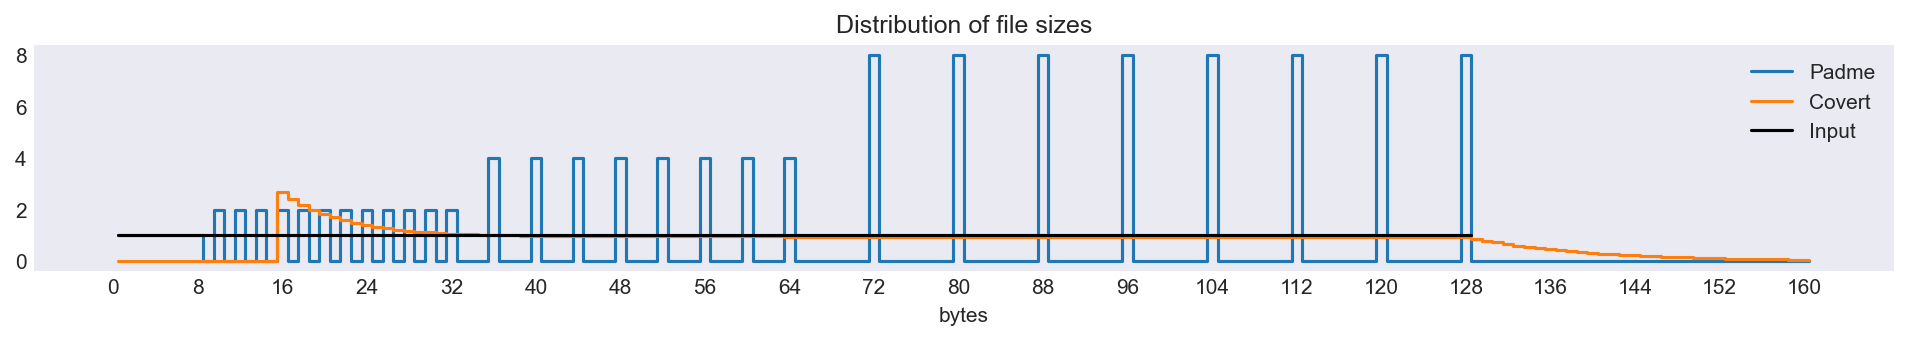
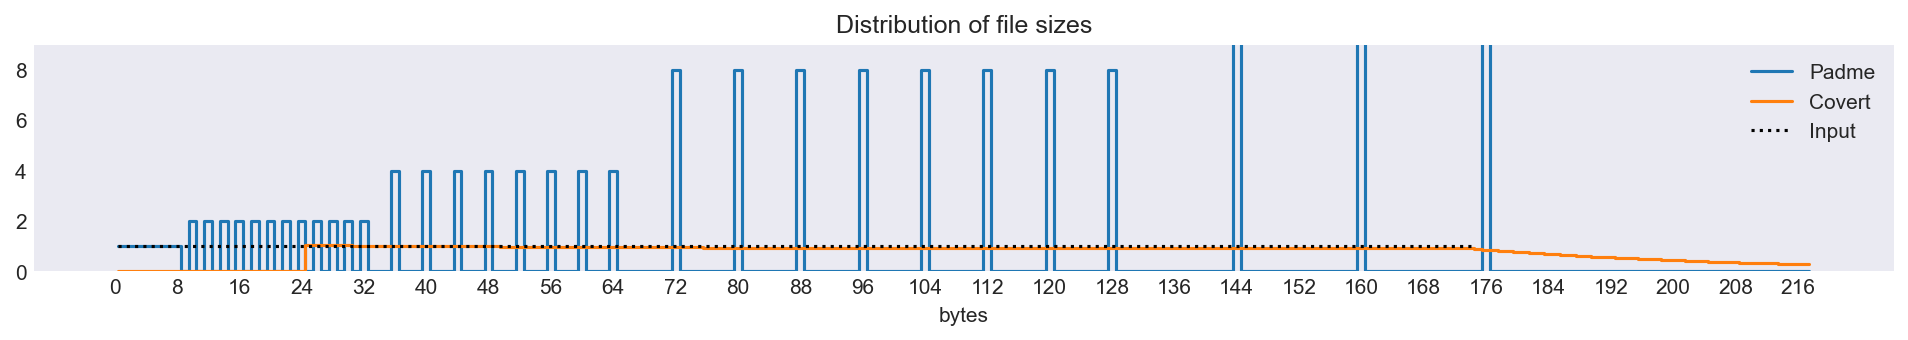
Increase padding on short messages such that they are strongly protected.

diff --git a/covert/util.py b/covert/util.py
@@ -82,10 +82,10 @@ def random_padding(total, p):
   if not p:
     return 0
   # Choose the amount of fixed padding to hide very short messages
-  low = int(p * 200)
+  low = int(p * 500)
   padfixed = max(0, low - total)
   # Calculate a preferred mean size and randomize
-  padsize = 2 + p * .7e8 * log2(1 + 1e-8 * max(low, total))
+  padsize = 1 + p * 200 + p * .7e8 * log2(1 + 1e-8 * max(low, total))
   padsize = int(round(random.expovariate(1.0 / padsize)))
   # Apply pad-to-fixed-size for very short messages plus random padding
   return padfixed + padsize

diff --git a/docs/Specification.md b/docs/Specification.md
@@ -75,12 +75,12 @@ padsize = int(round(random.expovariate(1.0 / size)))
 
 This gives good variation in the ciphertext length, such that one cannot guess the length and the meaning of a message by looking at the size of the ciphertext. The *mean length* will be `size` bytes. Most of the time the padding is shorter than that but occassionally it can be many times longer.
 
-![Padding size](https://github.com/covert-encryption/covert/raw/main/docs/in-out.png)
+![Padding size](https://github.com/covert-encryption/covert/raw/main/docs/in-out.webp)
 Message data is shown in grey, and the padding added on top of it in orange. Covert padding is randomized, visualised by fading shades of orange. Another currently popular padding scheme Padme is shown for comparison. Covert implements fixed size padding for small files making anything smaller than that look exactly the same. If there is more content, there will on average be less padding, and not even the distribution of the randomness varies on such small files. Covert always adds a random component such that each size of output corresponds to a large scale of input sizes and datasets cannot easily be identified by the sizes that appear in output. Padme reveals small file sizes exactly and for each output size there is only a strict range of possible input sizes.
 
 The deterministic approach may seem better if an adversary can somehow request the file to be encrypted many times to collect data on variation of size knowing that the target is always the same. For most practical uses, randomness is a better choice.
 
-![Output size distribution](https://github.com/covert-encryption/covert/raw/main/docs/distribution.png)
+![Output size distribution](https://github.com/covert-encryption/covert/raw/main/docs/distribution.webp)
 If only specific known sizes are produced, it may be possible to identify which scheme was used. The output file sizes should be distributed such that any byte size is likely to occur. Padme produces only a set of very distinct sizes, so if an adversary were to discover a set of files containing *only* such sizes, or even just one larger file that happens to be exactly on one of the padme sizes, he can reasonably assert that it is in fact padme-padded encrypted data. Covert maintains confidentiality and deniability by producing output file sizes that reveal very little of either the content or the packaging.
 
 The amount of padding, along with the fixed size level, may be adjusted by the `--pad` parameter on covert CLI to cater for different security and space usage trade offs.
